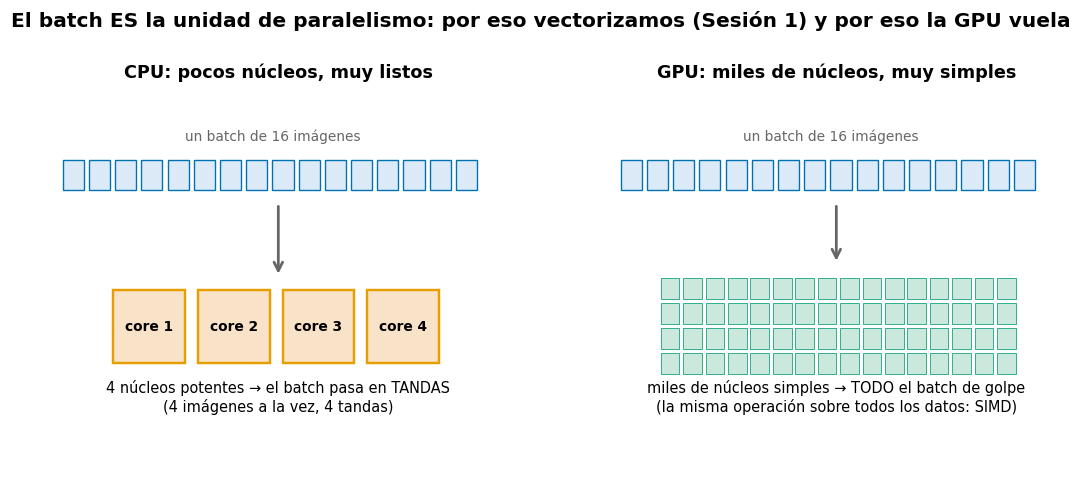
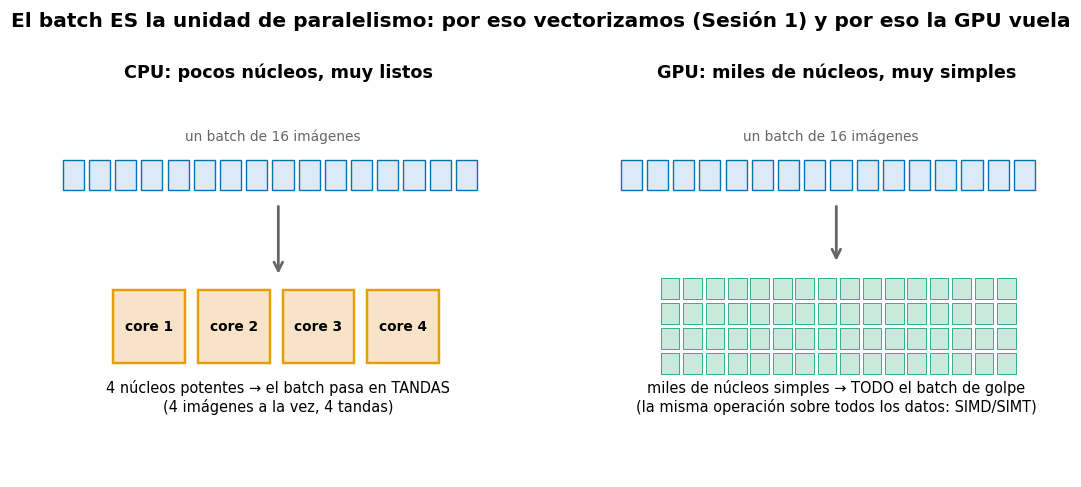
fix: auditoría técnica integral — grafo backward, precisión de fórmulas y consistencia
Errores corregidos:
- El grafo computacional de la Sesión 1 tenía las aristas del backward
  mal ancladas (el gradiente de b salía del nodo −y y el de w del nodo
  +); ahora la ruta es L→(·)²→(−y)→(+)→{b, ×}→w, igual que el video
  Remotion, con la semilla ∂L/∂L=1 explícita
- Caracteres árabes corruptos en la tabla de tokenización de la Sesión 3
  ("ادores" → "##adores")
- Conteos viejos: 8 notebooks en README y portal

Precisión vs literatura:
- Xavier corregido a √(2/(d_in+d_out)) (Glorot & Bengio) con nota de la
  simplificación 1/√d_in; He init aclarado como Delving Deep into
  Rectifiers (≠ paper de ResNet)
- Nota de rigor en S2: la "convolución" de los frameworks es correlación
  cruzada (y por qué no importa al aprenderse el kernel)
- SIMD → SIMD/SIMT (texto S2 y figura paralelismo regenerada)
- Gini: máximo 0.5 solo con 2 clases (1−1/K en general) en S0 y 00b
- El corte fascin+##ating marcado como ilustrativo en la tabla de S4
- Figura LSTM con subíndices W_f y W_o (regenerada)
- papers.md: citas nuevas de AdamW (Loshchilov & Hutter 2019) y
  Grinsztajn et al. 2022 (tabulares), enlazada desde la S0

Consistencia documental:
- Duración reconciliada como "32 h + nivelación (4 h)" en README,
  portal, CITATION.cff y Programa; agenda maestra con fila de Sesión 0
- README apunta a la ponderación institucional (alineacion-syllabus)
- Nota en alineación: los porcentajes del syllabus fuente suman 90%

Verificado: fórmulas y ejemplos numéricos del curso recalculados a mano
[…]

Changed region(s): [[0.58, 0.8008, 0.9463, 0.8624]]

diff --git a/docs/index.html b/docs/index.html
@@ -4,14 +4,14 @@
 <meta charset="UTF-8">
 <meta name="viewport" content="width=device-width, initial-scale=1.0">
 <title>Deep Learning: de los fundamentos a los Transformers — Aula virtual</title>
-<meta name="description" content="Curso completo de Deep Learning en español (32 h): tensores, MLP, CNN, RNN, attention y Transformers. Por Future Tales, LLC.">
+<meta name="description" content="Curso completo de Deep Learning en español (32 h + nivelación de ML): tensores, MLP, CNN, RNN, attention y Transformers. Por Future Tales, LLC.">
 <link rel="stylesheet" href="assets/css/aula.css">
 </head>
 <body>
 
 <header class="aula">
   <h1>🧠 Deep Learning: de los fundamentos a los Transformers</h1>
-  <p>Aula virtual del curso de 32 horas · intuición → visual → fórmula → implementación verificable</p>
+  <p>Aula virtual del curso: 32 horas + nivelación de ML · intuición → visual → fórmula → implementación verificable</p>
   <p style="margin-top:.6rem; font-size:.85rem;">
     <a href="https://github.com/felmco/deeplearning-class" style="color:#9ecbff;" target="_blank" rel="noopener noreferrer">📦 Repositorio en GitHub</a> ·
     Future Tales, LLC · 2026
@@ -93,8 +93,8 @@
 <div class="grid">
   <a class="tarjeta" href="https://github.com/felmco/deeplearning-class/tree/main/notebooks" target="_blank" rel="noopener noreferrer">
     <div class="icono">📓</div>
-    <h3>6 notebooks ejecutables</h3>
-    <p>Tensores y autograd · MLP · CNN · Secuencias/RNN · Attention desde cero · Fine-tuning con Hugging Face.</p>
+    <h3>8 notebooks ejecutables</h3>
+    <p>ML clásico y guía de modelos · Tensores y autograd · MLP · CNN · Secuencias/RNN · Attention desde cero · Fine-tuning con Hugging Face.</p>
   </a>
   <a class="tarjeta" href="https://github.com/felmco/deeplearning-class/blob/main/proyecto/README.md" target="_blank" rel="noopener noreferrer">
     <div class="icono">🏆</div>

diff --git a/src/figuras/generar_estaticas.py b/src/figuras/generar_estaticas.py
@@ -456,7 +456,7 @@ def fig_paralelismo() -> None:
                                  mutation_scale=14, color=GRIS,
                                  linewidth=1.8))
     ax.text(5.5, 1.5, "miles de núcleos simples → TODO el batch de golpe\n"
-            "(la misma operación sobre todos los datos: SIMD)",
+            "(la misma operación sobre todos los datos: SIMD/SIMT)",
             ha="center", fontsize=9.5)
     ax.set_title("GPU: miles de núcleos, muy simples", fontsize=11.5)
 
@@ -2138,7 +2138,7 @@ def fig_lstm_compuertas() -> None:
 
     # ── Compuerta 1: olvidar ──
     valvula(6, "⊗", ROJO)
-    caja(4.4, 5.4, 3.2, 1.15, "#F6D9CE", "fₜ = σ( W·[xₜ, hₜ₋₁] )")
+    caja(4.4, 5.4, 3.2, 1.15, "#F6D9CE", "fₜ = σ(W_f·[xₜ, hₜ₋₁])")
     flecha((6, 6.55), (6, 7.9), ROJO)
     ax.text(6, 4.85, "OLVIDAR: ¿qué borro?", ha="center",
             fontsize=9, color=ROJO, fontweight="bold")
@@ -2158,7 +2158,7 @@ def fig_lstm_compuertas() -> None:
                             edgecolor=NARANJA, linewidth=2.6, zorder=5))
     ax.text(16, 4.6, "⊗", ha="center", va="center", fontsize=15,
             color=NARANJA, fontweight="bold", zorder=6)
-    caja(17.6, 4.15, 2.4, 0.9, "#F9E3C8", "oₜ = σ(...)")
+    caja(17.6, 4.15, 2.9, 0.9, "#F9E3C8", "oₜ = σ(W_o·[…])")
     flecha((17.55, 4.6), (16.5, 4.6), NARANJA)
     flecha((16, 4.1), (16, 2.9), NARANJA)
     ax.text(16, 2.35, "hₜ — lo que ve el resto de la red",

diff --git a/sesiones/01-fundamentos.md b/sesiones/01-fundamentos.md
@@ -484,11 +484,12 @@ flowchart LR
     R -->|"error = −3"| Q(("(·)²"))
     Q -->|"L = 9"| L["loss"]
 
-    L -.->|"∂L/∂error = −6"| Q
-    Q -.->|"∂L/∂ŷ = −6"| R
-    R -.->|"∂L/∂b = −6"| b
-    R -.->|"∂L/∂(wx) = −6"| S
-    S -.->|"∂L/∂w = −6·x = −12"| w
+    L -.->|"∂L/∂L = 1 (la semilla)"| Q
+    Q -.->|"∂L/∂error = 2·error = −6"| R
+    R -.->|"∂L/∂ŷ = −6"| S
+    S -.->|"∂L/∂b = −6"| b
+    S -.->|"∂L/∂(wx) = −6"| M
+    M -.->|"∂L/∂w = −6·x = −12"| w
 
     style w fill:#E69F00,color:#000
     style b fill:#E69F00,color:#000
@@ -590,11 +591,15 @@ mantiene la señal estable:
 
 | Regla | Tamaño típico del peso | Para qué activación |
 |---|---|---|
-| **Xavier** (Glorot, 2010) | ≈ 1/√d_in | tanh, sigmoid |
-| **He** (He et al., 2015) | ≈ √(2/d_in) | ReLU — el ×2 compensa la mitad que ReLU apaga |
+| **Xavier** (Glorot & Bengio, 2010) | ≈ √(2/(d_in+d_out)) | tanh, sigmoid |
+| **He** (He et al., 2015, *Delving Deep into Rectifiers* — mismo grupo que ResNet, otro paper) | ≈ √(2/d_in) | ReLU — el ×2 compensa la mitad que ReLU apaga |
 
-Con números: para una capa que recibe d_in = 100 entradas, Xavier propone pesos
-típicos de ±1/√100 = ±0.1.
+(d_in y d_out = cuántas entradas recibe y cuántas salidas produce la capa; Xavier
+promedia ambos lados para que la señal sea estable en el forward Y en el backward —
+cuando d_in = d_out, se reduce al 1/√d_in que verás citado por ahí.)
+
+Con números: para una capa de 100 entradas y 100 salidas, Xavier propone pesos
+típicos de ±√(2/200) = ±0.1.
 
 En la práctica **PyTorch ya inicializa `nn.Linear` y `nn.Conv2d` con variantes
 razonables de estas reglas** — por eso no lo hicimos a mano en ningún lab. Solo se

diff --git a/recursos/papers.md b/recursos/papers.md
@@ -22,6 +22,12 @@ Lleva un promedio móvil del gradiente (hacia dónde ir) y de su magnitud (cuán
 por parámetro. Con la corrección de AdamW
 (weight decay desacoplado), es el optimizador por defecto del curso. *(Sesión 2)*
 
+### Decoupled Weight Decay Regularization (AdamW)
+**Loshchilov & Hutter (2019)** · <https://arxiv.org/abs/1711.05101>
+Demuestra que el weight decay dentro de Adam NO equivale a regularización L2 y lo
+desacopla de la actualización adaptativa. El "W" de AdamW — el default de este curso
+y del fine-tuning de Transformers. *(Sesiones 2 y 4)*
+
 ### Batch Normalization
 **Ioffe & Szegedy (2015)** · <https://arxiv.org/abs/1502.03167>
 Normalizar activaciones por mini-batch estabiliza y acelera el entrenamiento. Ojo con la
@@ -66,6 +72,12 @@ límites. La plantilla del proyecto final deriva de aquí. *(Sesión 4 y proyect
 **Cho et al. (2024)** · <https://arxiv.org/abs/2408.04619>
 La herramienta del laboratorio visual de la Sesión 3: GPT-2 small ejecutándose en el navegador
 con cada matriz inspeccionable.
+
+### Why do tree-based models still outperform deep learning on tabular data?
+**Grinsztajn, Oyallon & Varoquaux (2022)** · <https://arxiv.org/abs/2207.08815>
+La evidencia detrás del "momento honestidad" de la Sesión 0: en datos tabulares
+medianos, los ensambles de árboles siguen ganándole al Deep Learning. Elegir la
+herramienta por evidencia, no por moda. *(Sesión 0)*
 
 ---
 

diff --git a/sesiones/00-fundamentos-ml.md b/sesiones/00-fundamentos-ml.md
@@ -94,7 +94,7 @@ contra un baseline, regla de oro del curso).
 | Regresión lineal | $\hat{y} = wx + b$ | $\hat{y}$ = la predicción (un número) · $x$ = la feature de entrada · $w$ = la pendiente: cuánto cambia $\hat{y}$ por cada unidad de $x$ · $b$ = el intercepto: el valor base cuando $x=0$. Entrenar = encontrar la $w$ y la $b$ que minimizan el MSE de los residuos. |
 | Regresión logística | $p = \sigma(wx + b)$ | $p$ = probabilidad de la clase positiva · $\sigma$ = la sigmoide: aplasta cualquier número al rango (0, 1) · $w, b$ = los mismos pesos y bias de la lineal. Frontera de decisión donde $p = 0.5$ (es decir, donde $wx+b=0$). |
 | k-NN | $d(a,b)=\sqrt{\sum_i (a_i-b_i)^2}$ | $d(a,b)$ = distancia euclidiana entre los puntos $a$ y $b$ (Pitágoras generalizado) · $a_i, b_i$ = la feature i-ésima de cada punto · $k$ = cuántos vecinos votan. Predicción = el voto mayoritario de los $k$ puntos con menor $d$. |
-| Árbol de decisión | $G = 1 - \sum_k p_k^2$ | $G$ = impureza Gini del nodo: 0 si es puro (una sola clase), 0.5 si está 50/50 · $p_k$ = proporción de ejemplos de la clase $k$ en el nodo. Cada pregunta del árbol se elige para BAJAR $G$ lo más posible. |
+| Árbol de decisión | $G = 1 - \sum_k p_k^2$ | $G$ = impureza Gini del nodo: 0 si es puro (una sola clase), 0.5 si está 50/50 con dos clases (con K clases el máximo es 1−1/K) · $p_k$ = proporción de ejemplos de la clase $k$ en el nodo. Cada pregunta del árbol se elige para BAJAR $G$ lo más posible. |
 | Random forest | voto de $B$ árboles | $B$ = número de árboles (el `n_estimators`) · cada árbol se entrena con una muestra *bootstrap* distinta (muestrear con reemplazo) y features al azar. Predicción = el voto mayoritario: los errores individuales se cancelan. |
 | Gradient boosting | $F_m = F_{m-1} + \eta h_m$ | $F_m$ = el modelo acumulado tras $m$ árboles · $h_m$ = el árbol nuevo, entrenado sobre los RESIDUOS (errores) de $F_{m-1}$ · $\eta$ = learning rate: cuánto confiar en cada corrección (el mismo concepto de la Sesión 1). |
 | SVM | margen $= 2/\Vert w \Vert$ | margen = el ancho de la "calle" entre las dos clases · $w$ = los pesos que definen la frontera · $\Vert w \Vert$ = el tamaño (norma) de $w$. Maximizar el margen = encontrar la $w$ más pequeña que aún separa; solo los puntos que tocan la calle (vectores de soporte) la definen. |
@@ -108,9 +108,11 @@ contra un baseline, regla de oro del curso).
 > vectores de soporte).
 
 > ⚠️ **Momento honestidad:** para datos **tabulares** (filas y columnas), gradient
-> boosting sigue ganándole al Deep Learning la mayoría de las veces. El DL domina
-> cuando los datos son **no estructurados**: imágenes, texto, audio. Elegir la
-> herramienta por evidencia — no por moda — es una competencia central de este curso.
+> boosting sigue ganándole al Deep Learning la mayoría de las veces — la evidencia
+> sistemática está en [Grinsztajn et al., 2022](https://arxiv.org/abs/2207.08815)
+> (comentado en [papers.md](../recursos/papers.md)). El DL domina cuando los datos son
+> **no estructurados**: imágenes, texto, audio. Elegir la herramienta por evidencia —
+> no por moda — es una competencia central de este curso.
 
 ---
 

diff --git a/sesiones/02-cnn-vision.md b/sesiones/02-cnn-vision.md
@@ -94,6 +94,12 @@ Una ventana del tamaño del kernel se coloca sobre la imagen, se multiplica **el
 elemento** con el kernel, se suma todo y ese número es UNA celda del **feature map**. Luego
 la ventana se desliza y se repite. En una CNN real se suman además los canales de entrada.
 
+> 📐 **Nota de rigor:** la operación tal como está escrita (sin "voltear" el kernel) es,
+> matemáticamente, una **correlación cruzada**; la convolución estricta del análisis de
+> señales voltea el kernel primero. Los frameworks de Deep Learning calculan la
+> correlación y la llaman convolución — y como el kernel se *aprende*, la distinción no
+> cambia absolutamente nada en la práctica.
+
 ![Kernel deslizándose y construyendo el feature map](../docs/assets/figuras/convolucion.gif)
 
 🕹️ **Simulador:** [Convolución 2D interactiva](https://felmco.github.io/deeplearning-class/interactivos/convolucion.html) — elige el kernel, el stride y el padding, y avanza paso a paso.
@@ -277,7 +283,8 @@ bandeja:
 
 - **CPU:** pocos núcleos (4–16) muy potentes y flexibles — procesa el batch en tandas.
 - **GPU:** miles de núcleos simples que ejecutan **la misma instrucción sobre muchos
-  datos a la vez** (el término técnico: *SIMD*, Single Instruction Multiple Data) —
+  datos a la vez** (los términos técnicos: *SIMD*, Single Instruction Multiple Data,
+  y su variante en GPUs modernas, *SIMT* — la misma instrucción sobre muchos *hilos*) —
   el batch completo pasa de un solo golpe. Es la misma razón por la que en la Sesión 1
   **vectorizamos** en vez de usar `for`.
 

diff --git a/README.md b/README.md
@@ -2,7 +2,7 @@
 
 # 🧠 Deep Learning: de los fundamentos a los Transformers
 
-### Curso completo de 32 horas — aula virtual en GitHub
+### Curso completo de 32 horas + nivelación de ML (4 h) — aula virtual en GitHub
 
 **[🌐 Portal interactivo del aula](https://felmco.github.io/deeplearning-class/)** ·
 **[📖 Programa académico completo](Programa_Completo_Deep_Learning_Transformers_32h.md)** ·
@@ -89,7 +89,7 @@ deeplearning-class/
 ├── README.md                  ← estás aquí (portada del aula)
 ├── Programa_Completo_...md    ← programa académico completo (32 h)
 ├── sesiones/                  ← las sesiones del curso, 0–4 (el contenido del aula)
-├── notebooks/                 ← 7 laboratorios ejecutables
+├── notebooks/                 ← 8 laboratorios ejecutables
 ├── src/                       ← código fuente comentado (data, models, train, evaluate, utils)
 ├── tests/                     ← pruebas de shapes y smoke tests
 ├── configs/                   ← configuraciones YAML de experimentos (mlp, cnn, transformer)
@@ -151,6 +151,10 @@ python -m src.utils
 | Participación / revisión de pares | 5% | Pull request y feedback técnico |
 
 **Criterio de aprobación:** 70/100 y entrega reproducible del proyecto.
+
+> 🏛️ Para la ponderación **institucional** (taller teórico, [ensayo](proyecto/ensayo.md)
+> y avances del proyecto con exposiciones), ver la
+> [alineación con el syllabus oficial](docs/alineacion-syllabus.md).
 
 ## 📚 Recursos
 

diff --git a/Programa_Completo_Deep_Learning_Transformers_32h.md b/Programa_Completo_Deep_Learning_Transformers_32h.md
@@ -1,7 +1,7 @@
 
 # Programa completo de Deep Learning con capítulo de Transformers
 
-**Duración:** 4 sesiones de 8 horas — 32 horas totales  
+**Duración:** 4 sesiones de 8 horas — 32 horas totales — más una Sesión 0 de nivelación de ML (4 h sugeridas)  
 **Modalidad sugerida:** presencial o sincrónica, con exposición breve, demostración, práctica guiada y trabajo por equipos  
 **Stack principal:** Python, PyTorch, Jupyter en VS Code, Git/GitHub y Hugging Face  
 **Fecha de actualización de la guía:** 16 de julio de 2026  
@@ -140,12 +140,13 @@ Distribución recomendada del tiempo total:
 
 **Criterio de aprobación sugerido:** 70/100 y entrega reproducible del proyecto.
 
-## 7. Agenda maestra de las cuatro sesiones
+## 7. Agenda maestra de la nivelación y las cuatro sesiones
 
-> Cada sesión contempla 480 minutos. La propuesta incluye 60 minutos de pausas, para 420 minutos efectivos de aprendizaje y práctica. Puede adaptarse a la política de la institución.
+> Cada sesión (1–4) contempla 480 minutos. La propuesta incluye 60 minutos de pausas, para 420 minutos efectivos de aprendizaje y práctica. Puede adaptarse a la política de la institución. La Sesión 0 es una nivelación corta (4 h) previa al curso.
 
 | Sesión | Eje | Conceptos | Laboratorio principal | Producto del día |
 |---|---|---|---|---|
+| 0 | Nivelación de ML | Los tres paradigmas, modelos clásicos, k-means/PCA, Q-learning conceptual | Modelos de scikit-learn + gridworld | Tabla comparativa vs baseline y política del agente |
 | 1 | Fundamentos | Tensores, MLP, activaciones, loss, gradientes, backprop, training loop | MLP sobre `make_moons` | Notebook con frontera, métricas y curvas |
 | 2 | Visión y entrenamiento robusto | CNN, convolución, regularización, optimizadores, ResNet, transfer learning | CNN sobre FashionMNIST | Comparación controlada de dos runs |
 | 3 | Secuencias y Transformers | Embeddings, RNN/LSTM, atención, multi-head, positional encoding, Transformer | Atención y bloque Transformer desde cero | Heatmap, pruebas y reflexión |

diff --git a/docs/alineacion-syllabus.md b/docs/alineacion-syllabus.md
@@ -49,6 +49,10 @@ amplia").*
 | Avance 1 del proyecto de aula + exposición | 25% + 10% | Milestones [M0–M3](../proyecto/README.md) (repo, datos, baseline, modelo propio) + presentación de avance |
 | Avance 2 del proyecto de aula + exposición | 15% + 15% | Milestones M4–M6 (Transformer, evaluación, entrega) + demo day |
 
+> ⚠️ Los porcentajes del syllabus fuente suman **90%** (10+15+25+10+15+15): confirmar
+> con la coordinación del programa la asignación del 10% restante antes de aplicar la
+> ponderación en una cohorte.
+
 ## Mapeo de las 6 semanas del syllabus
 
 | Semana | Eje del syllabus | Material del repo |

diff --git a/sesiones/03-secuencias-transformers.md b/sesiones/03-secuencias-transformers.md
@@ -51,7 +51,7 @@ Un modelo no ve palabras: ve **IDs enteros**. El tokenizer parte el texto en uni
 |---|---|---|
 | Por palabra | `[transformadores]` | vocabulario enorme, palabras raras = `<unk>` |
 | Por carácter | `[t,r,a,n,s,...]` | vocabulario mínimo, secuencias larguísimas |
-| **Subword** (BPE/WordPiece) | `[transform, ادores]`* | equilibrio: lo raro se descompone |
+| **Subword** (BPE/WordPiece) | `[transform, ##adores]`* | equilibrio: lo raro se descompone |
 
 \* *ilustrativo; los cortes reales dependen del corpus de entrenamiento del tokenizer
 (el **corpus**: la colección de textos con la que se entrenó). BPE (*Byte-Pair

diff --git a/sesiones/04-hugging-face-proyecto.md b/sesiones/04-hugging-face-proyecto.md
@@ -95,7 +95,7 @@ salida = tokenizer('Deep learning is fascinating!')
 
 | Concepto | Qué es |
 |---|---|
-| **Subwords** | palabras raras se parten: `fascinating → fascin + ##ating` |
+| **Subwords** | palabras raras se parten: `fascinating → fascin + ##ating` (corte ilustrativo — el real depende del vocabulario del checkpoint; verifícalo en el notebook) |
 | **Tokens especiales** | `[CLS]` (resumen), `[SEP]` (separador), `[PAD]`, o `BOS/EOS` según arquitectura |
 | **attention_mask** | máscara de padding (≠ máscara causal de la Sesión 3) |
 | **truncation** | cortar secuencias al máximo del modelo |